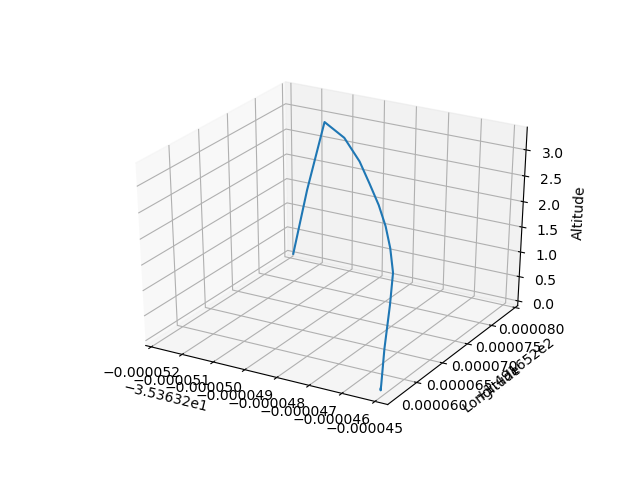
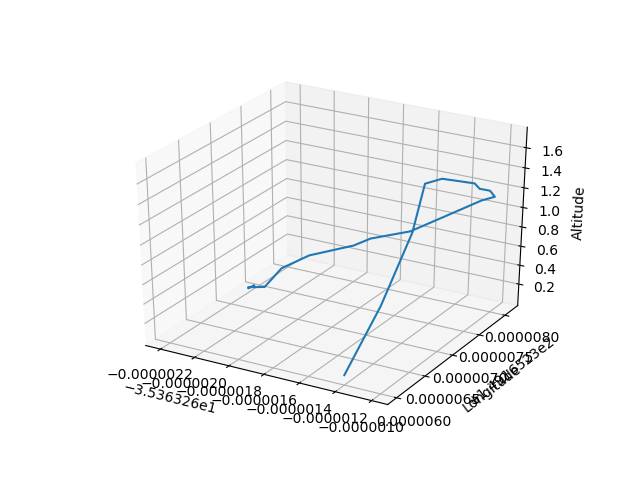
Optimalization Algorithm

Changed region(s): [[0.1562, 0.1875, 0.875, 0.9062]]

diff --git a/smc.py b/smc.py
@@ -27,14 +27,13 @@ def arm_takeoff(vehicle, altitude, scanning, plotting):
         print("Waiting for arming...")
         time.sleep(1)
     
-    state = np.array([[vehicle.location.global_relative_frame.lat], [vehicle.location.global_relative_frame.lon]])
-    ref = np.array([[vehicle.home_location.lat], [vehicle.home_location.lon]])
-    Ks = np.array([[1.0, 0.0], [0.0, 1.0]])
+    ref = np.array([[vehicle.home_location.lat], [vehicle.home_location.lon], [altitude]])
+    Ks = np.array([[1.0, 0.0, 0.0], [0.0, 1.0, 0.0], [0.0, 0.0, 0.1]])
 
     print("Take off!")
     while True:
-         # Get the current state of the vehicle
-        state = np.array([[vehicle.location.global_relative_frame.lat], [vehicle.location.global_relative_frame.lon]])
+        # Get the current state of the vehicle
+        state = np.array([[vehicle.location.global_relative_frame.lat], [vehicle.location.global_relative_frame.lon], [altitude]])
 
         # Run the Sliding Mode Control to generate control inputs
         u_control = sliding_mode_control(state, ref, Ks)
@@ -55,7 +54,8 @@ def arm_takeoff(vehicle, altitude, scanning, plotting):
         vehicle.channels.overrides = {
             '1': int(1500 + u_control[0,0]),
             '2': int(1500 + u_control[1,0]),
-            '3': throttle_value,
+            '3': int(1500 + u_control[2,0]),
+            # '3': throttle_value,
             '4': 1500
         }
         
@@ -68,18 +68,22 @@ def arm_takeoff(vehicle, altitude, scanning, plotting):
         
         time.sleep(0.1)
 
-def trajectory(vehicle, altitude, distance, duration, scanning, plotting):
+def trajectory(vehicle, altitude, distance, duration, speed, scanning, plotting):
     print("Trajectory")
     t = 0
-    Ks = np.array([[1.0, 0.0], [0.0, 1.0]])
+    Ks = np.array([[1.0, 0.0, 0.0], [0.0, 1.0, 0.0], [0.0, 0.0, 0.1]])
     start_time = time.time()
     vehicle.mode = dronekit.VehicleMode("ACRO")
+    
+    # Compute the desired position on the circle
+    ref = np.array([distance * np.cos(t), distance * np.sin(t), altitude]).reshape(3,1) + np.array([[vehicle.home_location.lat], [vehicle.home_location.lon], [0]])
     while True:
-        # Compute the desired position on the circle
-        ref = np.array([distance * np.cos(t), distance * np.sin(t)]).reshape(2,1) + np.array([[vehicle.home_location.lat], [vehicle.home_location.lon]])
-
         # Get the current state of the vehicle
-        state = np.array([[vehicle.location.global_relative_frame.lat], [vehicle.location.global_relative_frame.lon]])
+        state = np.array([
+            [vehicle.location.global_relative_frame.lat], 
+            [vehicle.location.global_relative_frame.lon],
+            [vehicle.location.global_relative_frame.alt]
+        ])
 
         # Run the Sliding Mode Control to generate control inputs
         u_control = sliding_mode_control(state, ref, Ks)
@@ -90,9 +94,10 @@ def trajectory(vehicle, altitude, distance, duration, scanning, plotting):
         
         # Set the control channel override values
         vehicle.channels.overrides = {
-            '1': int(1500 + (u_control[0,0] * 5)), 
-            '2': int(1500 + (u_control[1,0] * 5)), 
-            '3': throttle_value,
+            '1': int(1500 + (u_control[0,0] * speed)), 
+            '2': int(1500 + (u_control[1,0] * speed)), 
+            '3': int(1500 + u_control[2,0]), 
+            # '3': throttle_value,
             '4': 1500
         }
         vehicle.flush()
@@ -118,29 +123,32 @@ def trajectory(vehicle, altitude, distance, duration, scanning, plotting):
         
         # Sleep for a short period of time
         time.sleep(0.1)
-        
-        
+              
 def landing_disarm(vehicle, scanning, plotting):
     print("Landing")
-    Ks = np.array([[1.0, 0.0], [0.0, 1.0]])
+    Ks = np.array([[1.0, 0.0, 0.0], [0.0, 1.0, 0.0], [0.0, 0.0, 1.0]])
     u_alt = 0.1
+    # Compute the reference position for landing
+    ref = np.array([[vehicle.home_location.lat], [vehicle.home_location.lon], [0]])
+
     while True:
-        # Get the current state of the vehicle
-        state = np.array([[vehicle.location.global_relative_frame.lat], [vehicle.location.global_relative_frame.lon]])
-
-        # Compute the reference position for landing
-        ref = np.array([[vehicle.home_location.lat], [vehicle.home_location.lon]])
-
+        state = np.array([
+            [vehicle.location.global_relative_frame.lat], 
+            [vehicle.location.global_relative_frame.lon],
+            [vehicle.location.global_relative_frame.alt]
+        ])
+        
         # Run the Sliding Mode Control to generate control inputs
         u_control = sliding_mode_control(state, ref, Ks)
 
         current_altitude = vehicle.location.global_relative_frame.alt
         altitude_error = u_alt - current_altitude
-        throttle_value = int(1500 + altitude_error * 35)
+        throttle_value = int(1500 + altitude_error * 20)
         
         vehicle.channels.overrides = {
             '1': int(1500 + u_control[0,0]), 
             '2': int(1500 + u_control[1,0]), 
+            # '3': int(1500 + u_control[2,0]), 
             '3': throttle_value, 
             '4': 1500
         }
@@ -150,7 +158,7 @@ def landing_disarm(vehicle, scanning, plotting):
         print("Landing Data : ")
         print('Latitude: %s, Longitude: %s' % (state[0,0], state[1,0]))
         # print('Velocity in x-axis: %s, Velocity in y-axis: %s' % (state[2,0], state[3,0]))
-        print([u_control[0,0], u_control[1,0]])
+        print([u_control[0,0], u_control[1,0], u_control[2,0]])
         if scanning: print("Lidar Sensor Distance (m)", vehicle.location.global_relative_frame.alt)
         if plotting: plot.save(vehicle.location.global_relative_frame)
         print(vehicle.location.global_relative_frame)

diff --git a/main.py b/main.py
@@ -17,6 +17,7 @@ takeoff_alt = int(input("Takeoff Altitude (m): ") or 1)
 trajectory_alt = int(input("Trajectory Altitude (m): ") or 1.5)
 trajectory_distance = int(input("Trajectory Distance (m): ") or 2)
 trajectory_duration = int(input("Trajectory Duration Fly (s): ") or 10)
+override_speed = int(input("Override Speed (s): ") or 10)
 
 is_plotting = input("Plotting Diagram ? [Y/N] : ") or "Y"
 is_scanning = input("Scanning distance altitude with Lidar ? [Y/N] : ") or "Y"
@@ -44,11 +45,11 @@ except Exception as e:
 
 if method == 0:
     smc.arm_takeoff(vehicle, takeoff_alt, scanning, plotting)
-    smc.trajectory(vehicle, trajectory_alt, trajectory_distance, trajectory_duration, scanning, plotting)
+    smc.trajectory(vehicle, trajectory_alt, trajectory_distance, trajectory_duration, override_speed, scanning, plotting)
     smc.landing_disarm(vehicle, scanning, plotting)
 else :
     smckf.arm_takeoff(vehicle, takeoff_alt, scanning, plotting)
-    smckf.trajectory(vehicle, trajectory_alt, trajectory_distance, trajectory_duration, scanning, plotting)
+    smckf.trajectory(vehicle, trajectory_alt, trajectory_distance, trajectory_duration, override_speed, scanning, plotting)
     smckf.landing_disarm(vehicle, scanning, plotting)
 
 vehicle.close()

diff --git a/smckf.py b/smckf.py
@@ -97,7 +97,7 @@ def arm_takeoff(vehicle, altitude, scanning, plotting):
         
         time.sleep(0.1)
 
-def trajectory(vehicle, altitude, distance, duration, scanning, plotting):
+def trajectory(vehicle, altitude, distance, duration, speed, scanning, plotting):
     global home_location
     global distance_trajectory
     distance_trajectory = distance
@@ -135,8 +135,8 @@ def trajectory(vehicle, altitude, distance, duration, scanning, plotting):
         throttle_value = int(1500 + altitude_error * 35)
         
         vehicle.channels.overrides = {
-            '1': int(1500 + (u_control[0,0] * 20)), 
-            '2': int(1500 + (u_control[1,0] * 20)), 
+            '1': int(1500 + (u_control[0,0] * speed)), 
+            '2': int(1500 + (u_control[1,0] * speed)), 
             '3': throttle_value, 
             '4': 1500
         }
